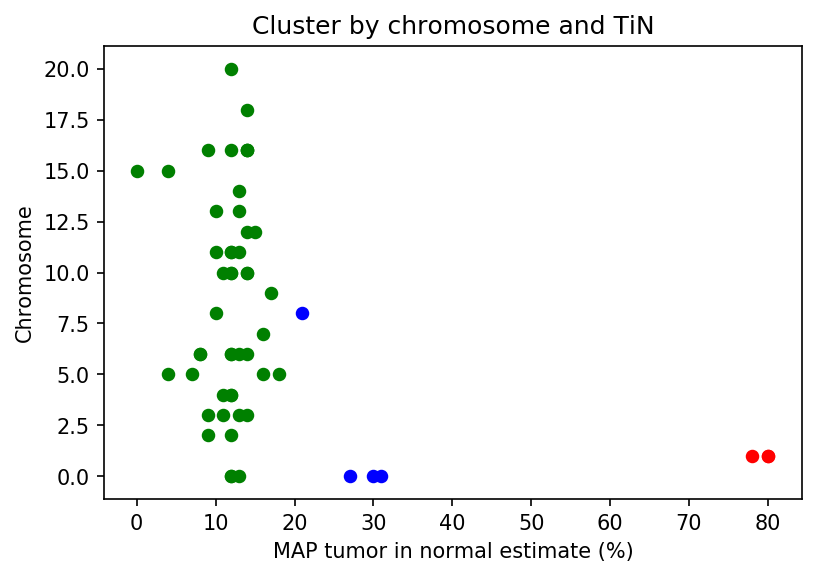
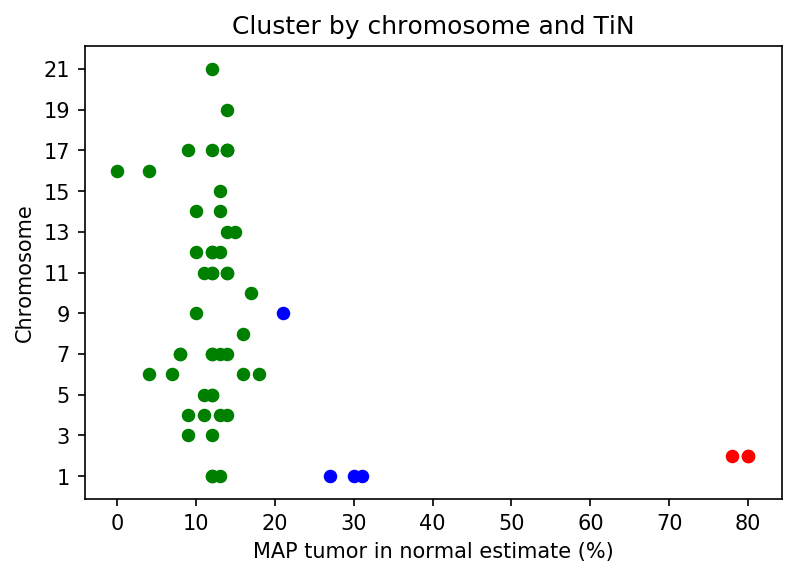
adjusting plotting to have better axes. added scipy to readme

diff --git a/deTiN_utilities.py b/deTiN_utilities.py
@@ -186,10 +186,11 @@ def plot_kmeans_info(ascna_based_model,do):
     clr = ['b', 'g', 'r']
     for i in range(K[kIdx]):
         ind = (ascna_based_model.cluster_assignment == i)
-        ax.scatter(X[ind], Y[ind], s=30, c=clr[i], label='Cluster %d' % i)
+        ax.scatter(X[ind], Y[ind]+1, s=30, c=clr[i], label='Cluster %d' % i)
     plt.xlabel('MAP tumor in normal estimate (%)')
     plt.ylabel('Chromosome')
     plt.title('Cluster by chromosome and TiN')
+    plt.yticks(np.arange(min(Y)+1, max(Y) + 2, 2.0))
     fig.set_dpi(150)
     fig.savefig(do.input.output_path + '/' + do.input.output_name + '_KmeansScatter_plot.png', bbox_inches='tight')
 

diff --git a/README.md b/README.md
@@ -12,7 +12,7 @@ Genomic characterization is vital to the understanding and treatment of cancer. 
 
 ## Installation
 
-Scripts are standalone but require Numpy, Pandas and Python 2.7. 
+Scripts are standalone but require Numpy, Pandas, Scipy and Python 2.7. 
 
 git clone https://github.com/amarotaylor/deTiN.git
 
